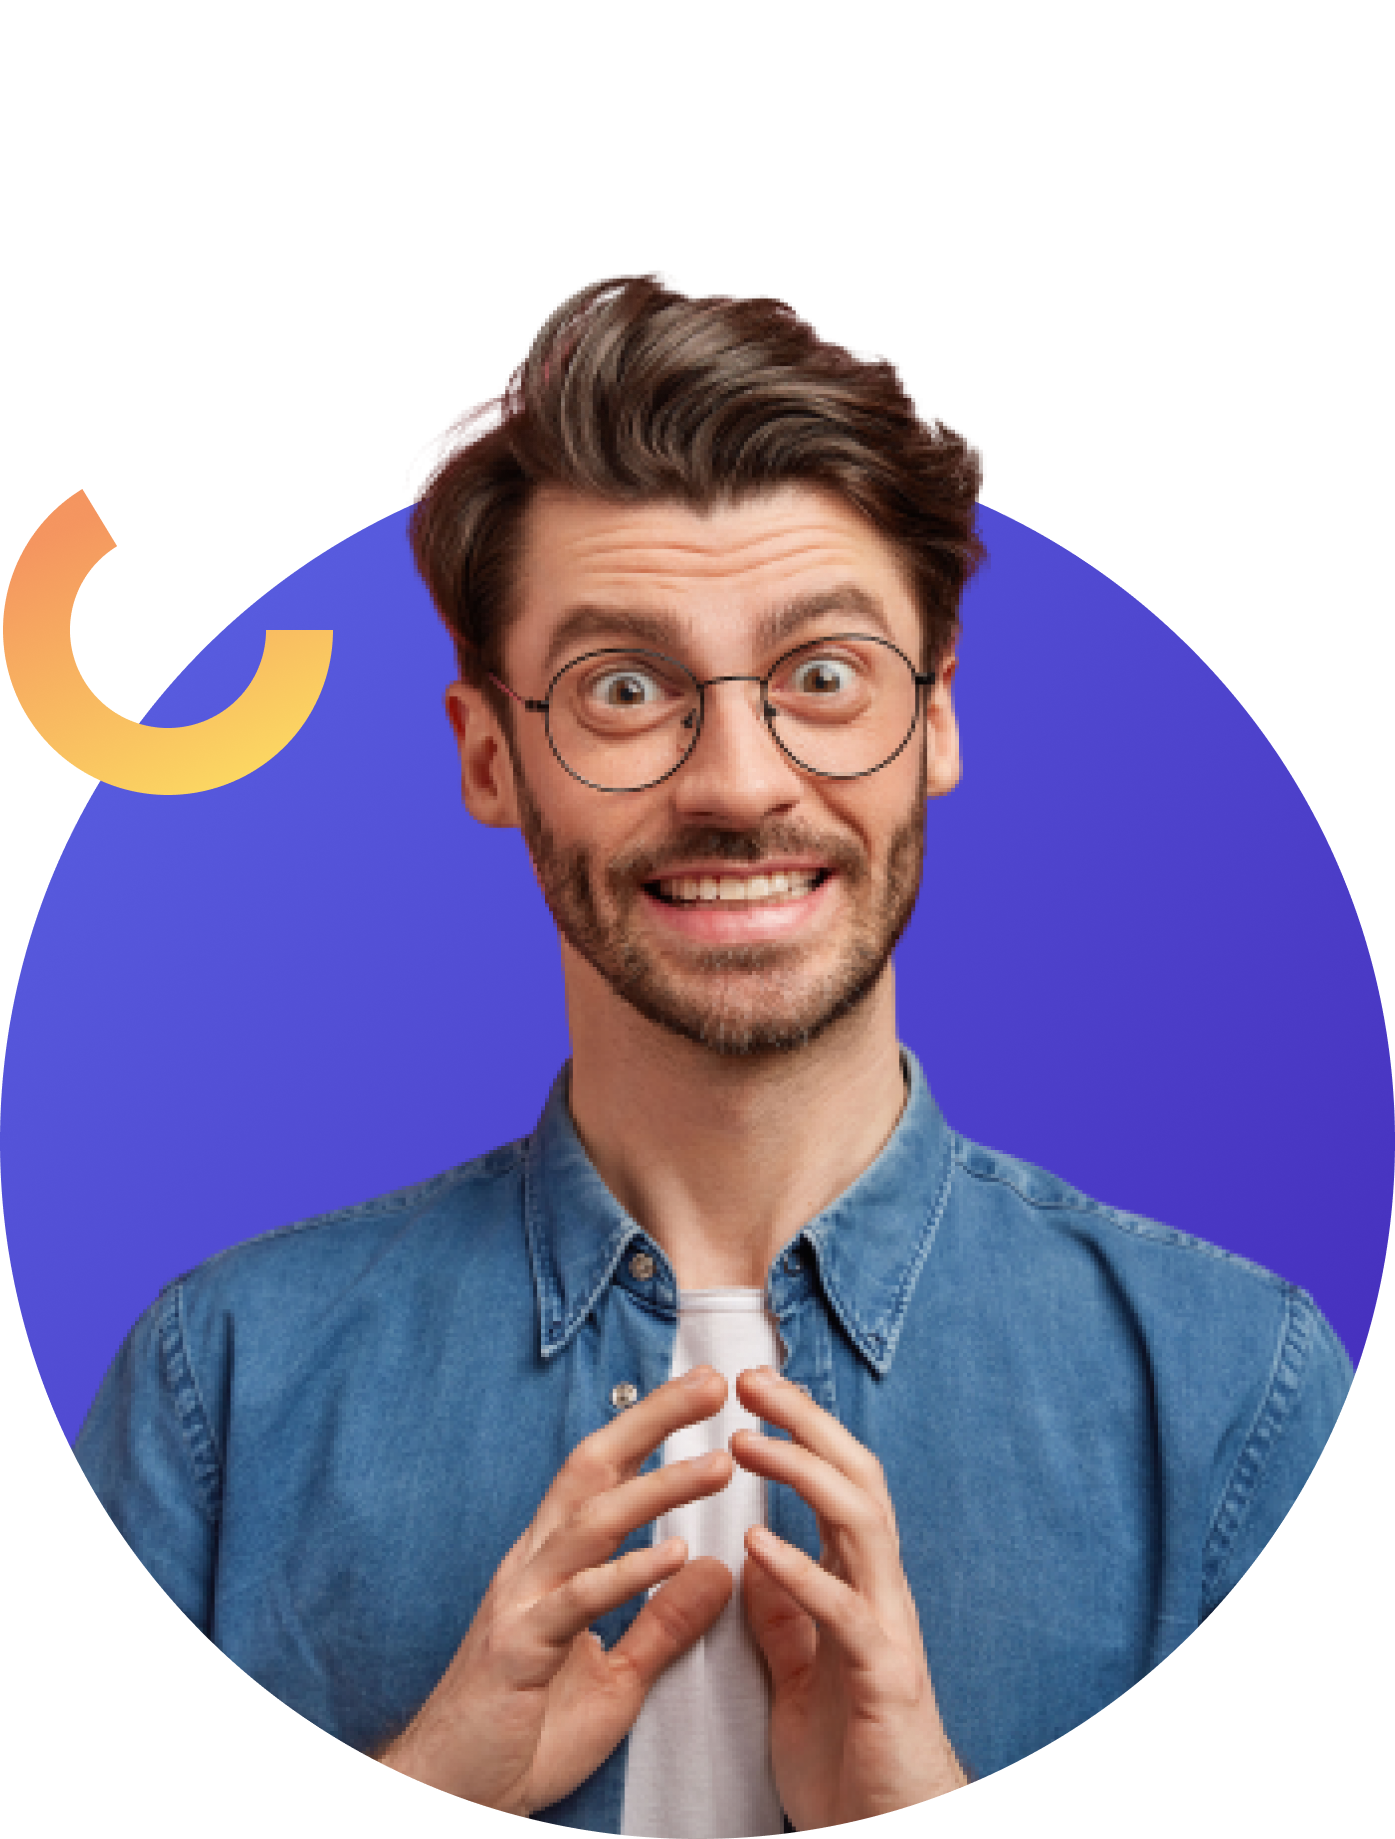
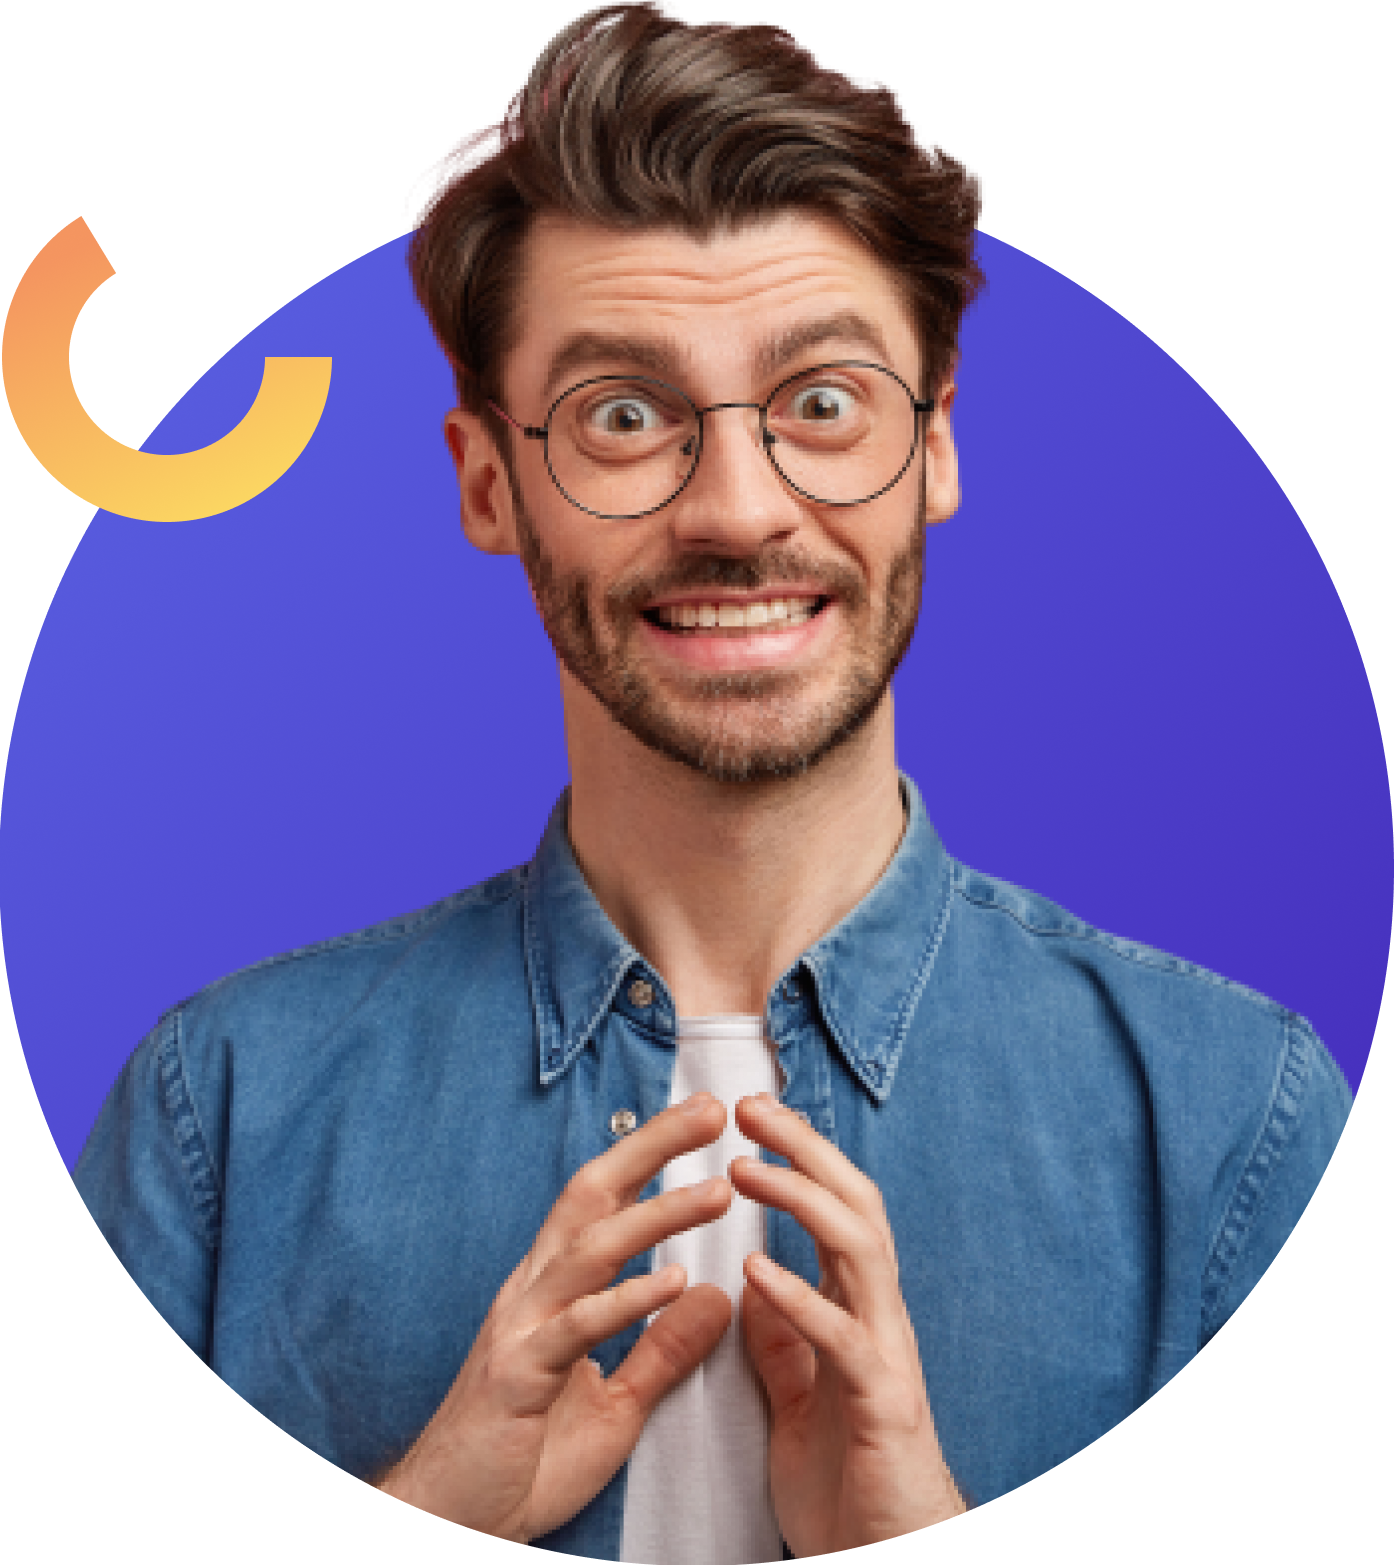
first section corrected

diff --git a/index.html b/index.html
@@ -1,5 +1,6 @@
 <!DOCTYPE html>
 <html lang="en">
+
 <head>
     <meta charset="UTF-8">
     <meta http-equiv="X-UA-Compatible" content="IE=edge">
@@ -13,24 +14,29 @@
     <link rel="preconnect" href="https://fonts.gstatic.com" crossorigin>
     <link href="https://fonts.googleapis.com/css2?family=Roboto:wght@100;400&display=swap" rel="stylesheet">
 </head>
+
 <body>
 
-    <div class="container first-div">
-        <div class="top-nav">
-           <a href="#">Home</a>
-           <a href="#">Contact</a>
-           <a href="#">Pages</a>
-           <a href="#">About</a>
-        </div>
-        <div class="container-box half">
-            <h1>HELLO, I'M</h1>
-            <h1 id="highlight">ROB DAVIDSON</h1>
-            <P>A full stack allaround designer that placeratin massa consectetur</P>
+    <div class="first-div">
+        <div class="container">
+            <div class="top-nav">
+                <a href="#">Home</a>
+                <a href="#">Contact</a>
+                <a href="#">Pages</a>
+                <a href="#">About</a>
+            </div>
+            <div class="hero">
+                <div class="container-box hero__left">
+                    <h1>HELLO, I'M</h1>
+                    <h1 id="highlight">ROB DAVIDSON</h1>
+                    <P>A full stack allaround designer that placeratin massa consectetur</P>
 
-            <a href="#"><button>Hire Me</button></a>
-        </div>
-        <div class="container-box" >
-            <img src="images/do not use this pic.png" alt="">
+                    <a href="#"><button>Hire Me</button></a>
+                </div>
+                <div class="container-box hero__right">
+                    <img src="images/do not use this pic.png" alt="">
+                </div>
+            </div>
         </div>
     </div>
 
@@ -40,41 +46,45 @@
         </div>
         <div class="container-box half">
             <h2>ABOUT</h2>
-            <p>Lorem, ipsum dolor sit amet consectetur adipisicing elit. Est eaque quas rerum ex sint ullam velit labore quis modi, culpa quibusdam, fugiat ipsam autem accusantium magni, nobis voluptate vel! Voluptatum.</p>
+            <p>Lorem, ipsum dolor sit amet consectetur adipisicing elit. Est eaque quas rerum ex sint ullam velit labore
+                quis modi, culpa quibusdam, fugiat ipsam autem accusantium magni, nobis voluptate vel! Voluptatum.</p>
             <a href="#"><button>Download CV</button></a>
         </div>
     </div>
     <h2 id="working-project"><span id="lastest">LASTEST</span> WORKING PROJECT</h2>
     <div id="project">
-       
+
         <div class="box">
             <img class="project-image" src="images/image 4.png" alt="">
             <h4>Power-x-gym(gym website)</h4>
-            <p>Lorem ipsum, dolor sit amet consectetur adipisicing elit.Lorem ipsum dolor sit amet consectetur adipisicing elit. </p>
+            <p>Lorem ipsum, dolor sit amet consectetur adipisicing elit.Lorem ipsum dolor sit amet consectetur
+                adipisicing elit. </p>
         </div>
         <div class="box">
             <img class="project-image" src="images/image 5.png" alt="">
             <h4>Creative Agency</h4>
-            <p>Lorem ipsum dolor sit amet consectetur adipisicing elit. Lorem ipsum dolor sit amet consectetur adipisicing elit.  </p>
+            <p>Lorem ipsum dolor sit amet consectetur adipisicing elit. Lorem ipsum dolor sit amet consectetur
+                adipisicing elit. </p>
         </div>
         <div class="box">
             <img class="project-image" src="images/image 8.png" alt="">
             <h4>Hard Rock Music</h4>
-            <p>Lorem ipsum dolor sit amet consectetur, adipisicing elit.Lorem ipsum dolor sit amet consectetur adipisicing elit. </p>
+            <p>Lorem ipsum dolor sit amet consectetur, adipisicing elit.Lorem ipsum dolor sit amet consectetur
+                adipisicing elit. </p>
         </div>
     </div>
     <section>
         <div class="back-image">
-            
+
         </div>
         <div class="work">
             <div class="half-box">
-                    <h2 >WORK INQUIRY</h2>
+                <h2>WORK INQUIRY</h2>
             </div>
-                <div class="half-box">
-                    <a href="#"><button>Let's Chat</button></a>
-                </div>
-    
+            <div class="half-box">
+                <a href="#"><button>Let's Chat</button></a>
+            </div>
+
         </div>
         <div class="connect">
             <h5>STAY CONNECTED</h5>
@@ -92,9 +102,10 @@
             </div>
         </div>
         <div>
-            <p  id="copy-right">© | 2011 mydomain.com | All Rights Reserved</p>
+            <p id="copy-right">© | 2011 mydomain.com | All Rights Reserved</p>
         </div>
     </section>
 
 </body>
+
 </html>

diff --git a/style.css b/style.css
@@ -18,7 +18,8 @@
     font-size: 12px;
 }
 .container{
-    height: 450px;
+    max-width: 1140px;
+    margin: auto;
 }
 
 .first-div{
@@ -32,31 +33,39 @@
 
 
 .container-box{
-    width: 42%;
-    float: left;
-
+    /*width: 42%;*/
 }
+.hero {
+    display: flex;
+    align-items: center;
+    padding-top: 3rem;
+    padding-bottom: 3rem;
+}
+.hero .container-box {
+    flex: 1;
+}
+
 
 .container-box p{
     color: #3E3E3E;
-    font-size: 10px;
+    font-size: 1rem;
     font-family: 'Roboto', sans-serif;
 }
 .container-box h1{
     color: #363958;
-    font-size: 30px;
+    font-size: 3rem;
     font-family: 'Bebas Neue', cursive;
 }
 #highlight{
     color: #FF8367;
 }
 .container-box img{
-    width: 100%;
+    width: 75%;
 }
-.half{
+/*.half{
     margin-top: 150px;
     margin-left: 50px;
-}
+}*/
 
 button{
     border: none;
